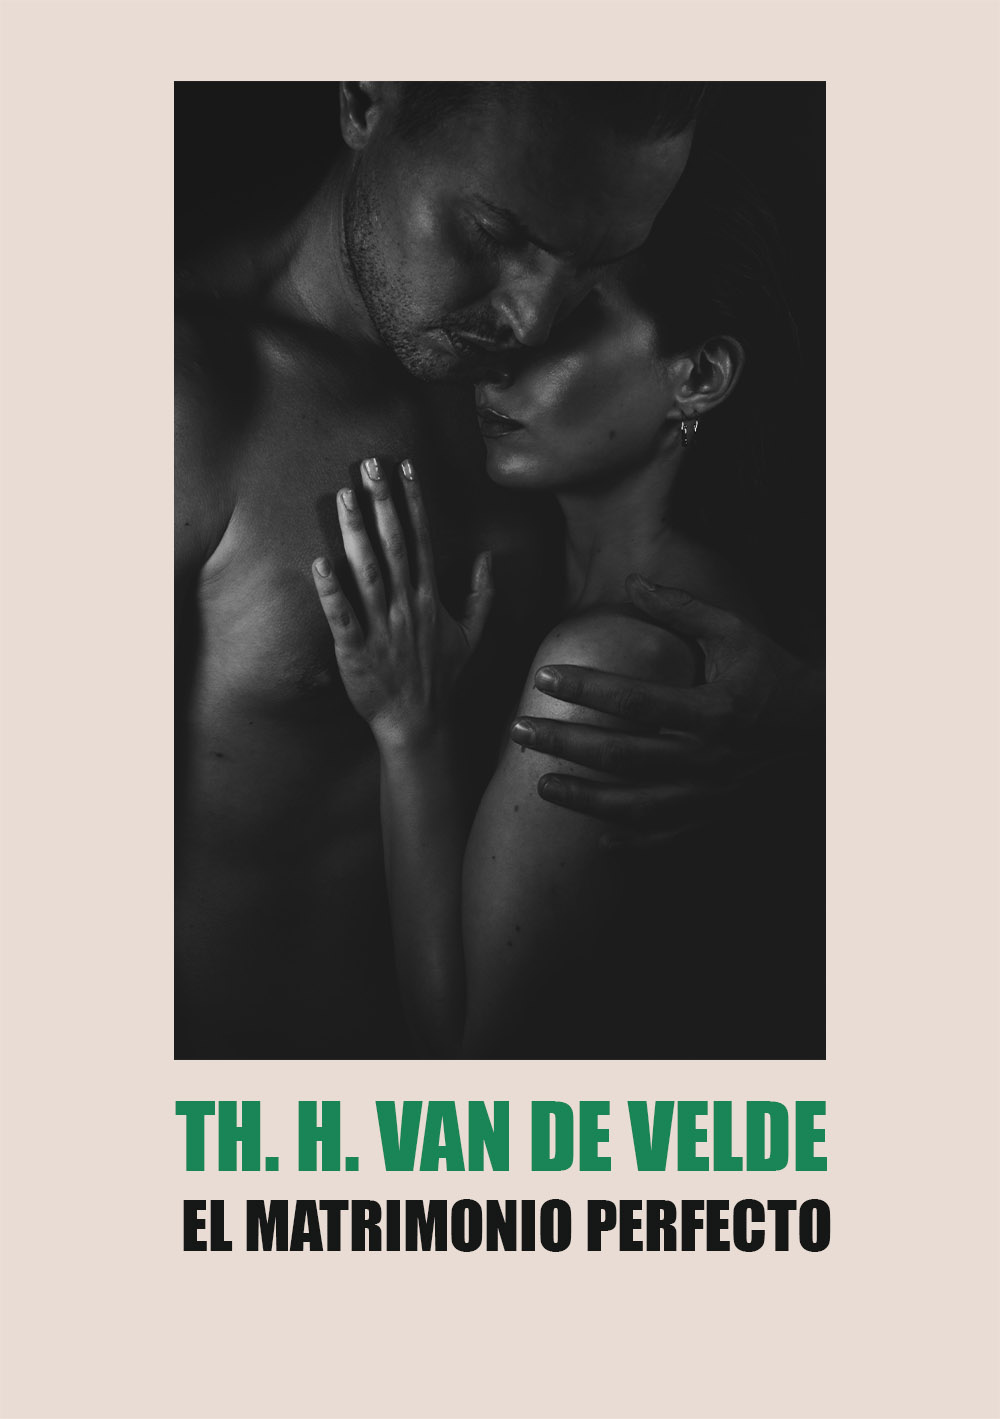
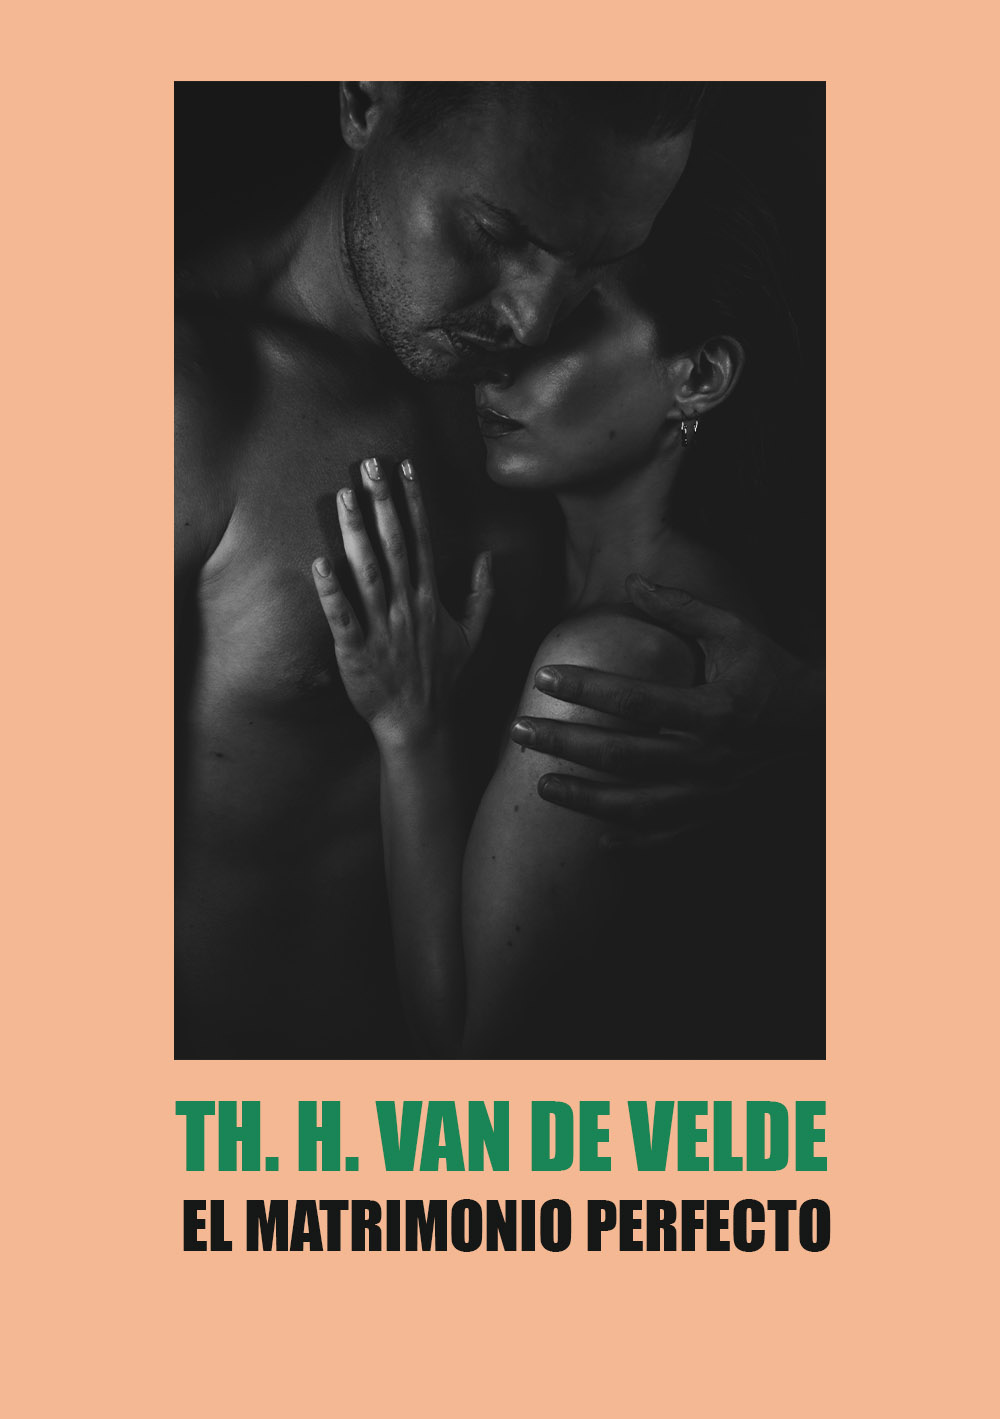
Add files via upload

diff --git a/70velde.html b/70velde.html
@@ -21,11 +21,7 @@
 <h2 style="color:red; font-size:30px;"> &emsp;&emsp;&emsp;El matrimonio perfecto</h2>
 
 <div align="justify"; style="float: center; margin:30px">
-&emsp;&emsp;Theodoor Hendrik Van de Velde (1873-1937), ginecólogo y director de un instituto ginecológico en Haarlem, Países Bajos, publicó en 1926 <i>El matrimonio perfecto</i> (Het volkomen huwelijk), un influyente y revolucionario ensayo sobre la fisiología, la psicología y la técnica de la vida sexual en el matrimonio. Rompió tabús de la época al animar a las parejas casadas a entender y disfrutar plenamente del sexo como un pilar fundamental de la relación conyugal. Se convirtió en un best seller traducido a múltiples idiomas. Sin embargo, debido a su enfoque explícito sobre el placer y la sexualidad, la Iglesia católica lo incluyó en el <i>Index Librorum Prohibitorum</i> (el índice de libros prohibidos que el papa Pablo VI abolió definitivamente en 1966). Como suele ocurrir con la mayoría de las obras censuradas, esta resultó promocionada como una prueba más de la afirmación de Georges Bataille:
-
-<br><br>
-
-<i>La prohibición da un sentido que en sí misma la acción prohibida no tenía. Lo prohibido compromete en la transgresión, sin la cual la acción no tendría el resplandor de maldad que seduce... Es la transgresión de lo prohibido la que hechiza...</i>
+&emsp;&emsp;Theodoor Hendrik Van de Velde (1873-1937), ginecólogo y director de un instituto ginecológico en Haarlem, Países Bajos, publicó en 1926 <i>El matrimonio perfecto</i> (Het volkomen huwelijk), un influyente y revolucionario ensayo sobre la fisiología, la psicología y la técnica de la vida sexual en el matrimonio. Rompió tabús de la época al animar a las parejas casadas a entender y disfrutar plenamente del sexo como un pilar fundamental de la relación conyugal. Se convirtió en un best seller traducido a múltiples idiomas. Sin embargo, debido a su enfoque explícito sobre el placer y la sexualidad, la Iglesia católica lo incluyó en el <i>Index Librorum Prohibitorum</i> (el índice de libros prohibidos que el papa Pablo VI abolió definitivamente en 1966). Como suele ocurrir con la mayoría de las obras censuradas, esta resultó promocionada como una prueba más de la afirmación de Georges Bataille: <i>Es la transgresión de lo prohibido la que hechiza...</i>
 
 <br><br> 
 
